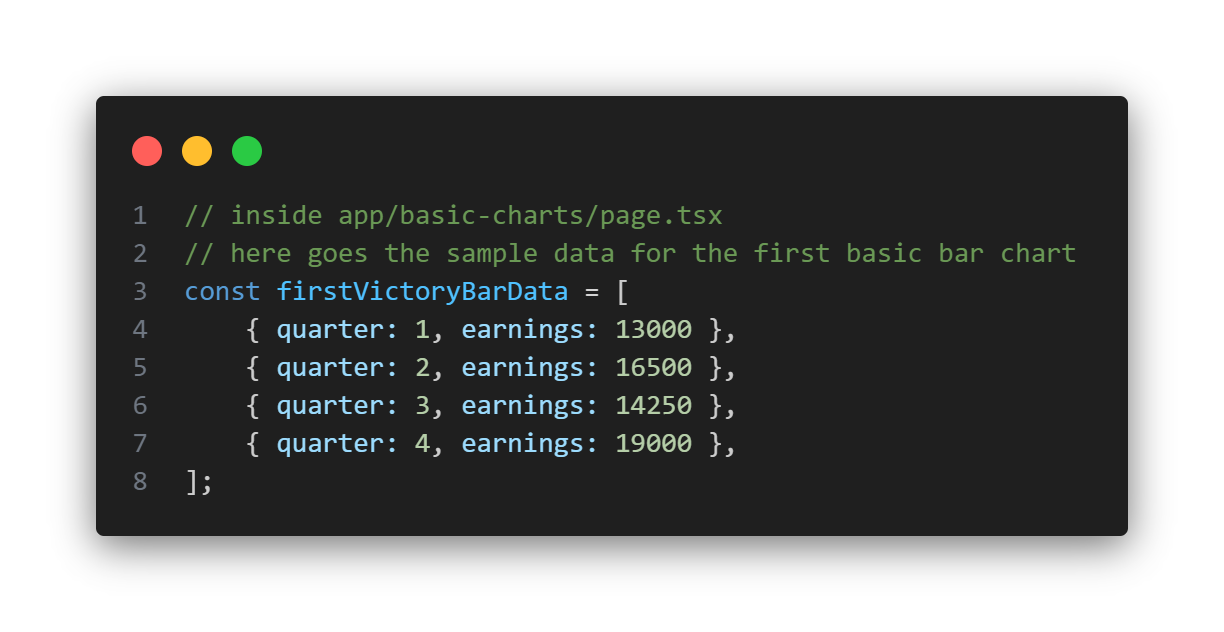
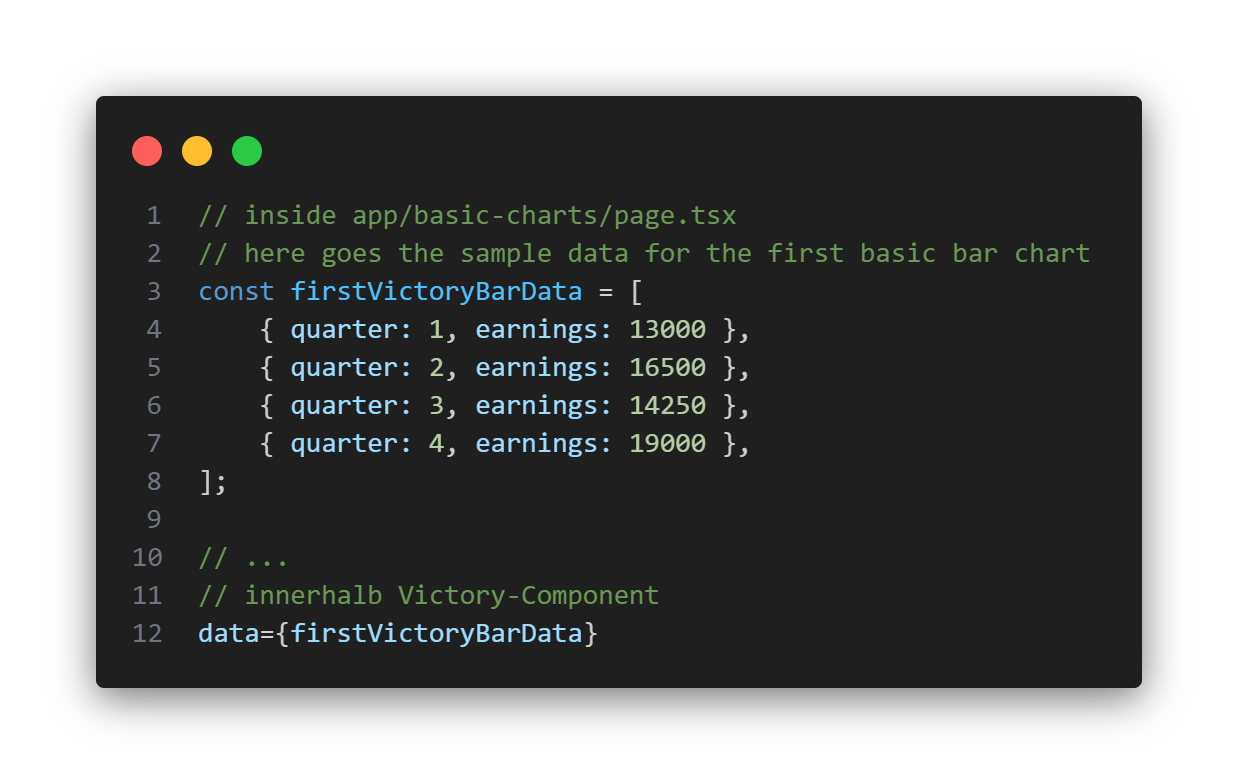
feat: pre finished basic charts

diff --git a/app/basic-charts/page.tsx b/app/basic-charts/page.tsx
@@ -1,13 +1,16 @@
 "use client";
 
 import {
+    Background,
     VictoryArea,
     VictoryAxis,
     VictoryBar,
     VictoryChart,
+    VictoryGroup,
     VictoryHistogram,
     VictoryLine,
     VictoryPie,
+    VictoryStack,
     VictoryTheme,
 } from "victory";
 import Link from "next/link";
@@ -125,7 +128,7 @@ export default function Page() {
             </section>
 
             <section>
-                <h2>Einfache Charts</h2>
+                <h2>Einfache Charts ohne Achsen</h2>
                 <article>
                     <h3>Säulendiagramm</h3>
                     <code>
@@ -136,34 +139,15 @@ export default function Page() {
                     </code>
                     <div>
                         <div className="basic-charts-div">
-                            <VictoryChart
-                                // specify the title to be applied to the SVG to assist with accessibility for screen readers
-                                title="First Bar Chart"
-                                // adding the material theme provided with Victory, alternative would be grayscale
+                            <VictoryBar
+                                data={firstVictoryBarData}
+                                // data accessor for x values
+                                x="quarter"
+                                // data accessor for y values
+                                y="earnings"
+                                // select a premade Victory theme
                                 theme={VictoryTheme.material}
-                                // prevent the bars from overlapping the axis
-                                domainPadding={20}
-                            >
-                                <VictoryAxis
-                                    tickValues={[1, 2, 3, 4]}
-                                    // tickFormat specifies how ticks should be named
-                                    tickFormat={["Quarter 1", "Quarter 2", "Quarter 3", "Quarter 4"]}
-                                />
-
-                                <VictoryAxis
-                                    dependentAxis
-                                    // tickFormat specifies how ticks should be displayed
-                                    tickFormat={(x: any) => `$${x / 1000}k`}
-                                />
-
-                                <VictoryBar
-                                    data={firstVictoryBarData}
-                                    // data accessor for x values
-                                    x="quarter"
-                                    // data accessor for y values
-                                    y="earnings"
-                                />
-                            </VictoryChart>
+                            />
                         </div>
                         <div className="image-container">
                             <Image
@@ -258,6 +242,209 @@ export default function Page() {
                         <Image
                             src="/../public/images/codesnap/basic-charts-Line.png"
                             width={900}
+                            height={500}
+                            quality={100}
+                            alt="Code Snippet"
+                        />
+                    </div>
+                </article>
+            </section>
+            <section>
+                <h2>Wichtige Victory-Components für sinnvolle Charts</h2>
+                <article>
+                    <h3>Universeller Wrapper: VictoryChart</h3>
+                    <code>
+                        Victory-Component:{" "}
+                        <Link href="https://formidable.com/open-source/victory/docs/victory-chart/" target="blank">
+                            VictoryChart
+                        </Link>
+                    </code>
+                    <ul>
+                        <li>Rendert ein Set von Victory Children Components und dient somit als Wrapper</li>
+                        <li>
+                            Kontrolliert das Layout der Victory Components, wie z.B. die Positionierung der Achsen oder
+                            die Farbgebung
+                        </li>
+                        <li>Koordinert Animationen und Events zwischen den Victory Children Components</li>
+                        <li>Sind keine Children verfügbar, werden leere Standard-Achsen gerendert</li>
+                    </ul>
+                    <div className="basic-charts-div">
+                        <VictoryChart
+                            height={300}
+                            width={300}
+                            domain={[-2, 2]}
+                            style={{ background: { fill: "yellow" } }}
+                            backgroundComponent={<Background y={50} height={100} />}
+                        />
+                    </div>
+                    <div className="image-container">
+                        <Image
+                            src="/../public/images/codesnap/basic-charts-Chart.png"
+                            width={800}
+                            height={500}
+                            quality={100}
+                            alt="Code Snippet"
+                        />
+                    </div>
+                </article>
+                <article>
+                    <h3>Achsen: VictoryAxis</h3>
+                    <code>
+                        Victory-Component:{" "}
+                        <Link href="https://formidable.com/open-source/victory/docs/victory-chart/" target="blank">
+                            VictoryAxis
+                        </Link>
+                    </code>
+                    <ul>
+                        <li>Rendert eine einzige Achse</li>
+                        <li>
+                            Kann allein verwendet werden oder innerhalb VictoryChart mit anderen Achsen gruppiert werden
+                        </li>
+                    </ul>
+                    <div className="basic-chart-container">
+                        <VictoryChart height={400} width={400} theme={VictoryTheme.material}>
+                            <VictoryAxis
+                                // set crossAxis if two axes will cross each other, 0 tick will be removed
+                                crossAxis
+                                width={400}
+                                height={400}
+                                // domain defines the range of values your axis will include
+                                domain={[-10, 10]}
+                                // offset defines the offset of the axis from the edge of the chart
+                                offsetY={200}
+                            />
+                            <VictoryAxis
+                                dependentAxis
+                                crossAxis
+                                width={400}
+                                height={400}
+                                domain={[-10, 10]}
+                                offsetX={200}
+                            />
+                        </VictoryChart>
+                    </div>
+                    <div className="image-container">
+                        <Image
+                            src="/../public/images/codesnap/basic-charts-Axis.png"
+                            width={1000}
+                            height={500}
+                            quality={100}
+                            alt="Code Snippet"
+                        />
+                    </div>
+                </article>
+                <article>
+                    <h3>Stapeln: VictoryStack</h3>
+                    <code>
+                        Victory-Component:{" "}
+                        <Link href="https://formidable.com/open-source/victory/docs/victory-chart/" target="blank">
+                            VictoryStack
+                        </Link>
+                    </code>
+                    <ul>
+                        <li>Rendert Victory Children Komponenten in gesstapeltem Layout</li>
+                        <li>Ähnlich wie Victorychart ein Wrapper-Component, der Layout an Children vererben kann</li>
+                        <li>
+                            Funktioniert mit VictoryArea, VictoryBar, VictoryCandlestick, VictoryErrorBar,
+                            VictoryGroup,VictoryLine, VictoryScatter, VictoryHistogram
+                        </li>
+                        <li>VictoryHistogram kann nicht mit anderen Component-Arten gestapelt werden</li>
+                    </ul>
+                    <div className="basic-chart-container">
+                        <VictoryStack height={200} width={300} theme={VictoryTheme.material}>
+                            <VictoryArea
+                                data={[
+                                    { x: "a", y: 2 },
+                                    { x: "b", y: 3 },
+                                    { x: "c", y: 5 },
+                                ]}
+                            />
+                            <VictoryArea
+                                data={[
+                                    { x: "a", y: 1 },
+                                    { x: "b", y: 4 },
+                                    { x: "c", y: 5 },
+                                ]}
+                            />
+                            <VictoryArea
+                                data={[
+                                    { x: "a", y: 3 },
+                                    { x: "b", y: 2 },
+                                    { x: "c", y: 6 },
+                                ]}
+                            />
+                        </VictoryStack>
+                    </div>
+                    <div className="image-container">
+                        <Image
+                            src="/../public/images/codesnap/basic-charts-Stack.png"
+                            width={800}
+                            height={500}
+                            quality={100}
+                            alt="Code Snippet"
+                        />
+                    </div>
+                </article>
+                <article>
+                    <h3>Gruppieren: VictoryGroup</h3>
+                    <code>
+                        Victory-Component:{" "}
+                        <Link href="https://formidable.com/open-source/victory/docs/victory-group/" target="blank">
+                            VictoryGroup
+                        </Link>
+                    </code>
+                    <ul>
+                        <li>Rendert ein Set von Victory Children Components und dient somit als Wrapper</li>
+                        <li>
+                            Kontrolliert das Layout der Victory Components, wie z.B. die Positionierung der Achsen oder
+                            die Farbgebung
+                        </li>
+                        <li>Koordinert Animationen und Events zwischen den Victory Children Components</li>
+                        <li>
+                            Funktioniert mit VictoryArea, VictoryBar, VictoryBoxPlot, VictoryCandlestick,
+                            VictoryErrorBar, VictoryLine, VictoryScatter, VictoryHistogram, VictoryStack und
+                            VictoryVoronoi.
+                        </li>
+                        <li>
+                            Innerhalb VictoryGroup sind keine Achsen erlaubt, diese sollten von VictoryChart umhüllt
+                            sein
+                        </li>
+                    </ul>
+                    <div className="basic-chart-container">
+                        <VictoryChart width={300} height={250}>
+                            <VictoryGroup
+                                offset={12}
+                                // colorScale kann auch explizit angegeben werden, ohne dass ein Theme verwendet wird
+                                colorScale={"qualitative"}
+                            >
+                                <VictoryBar
+                                    data={[
+                                        { x: 1, y: 1 },
+                                        { x: 2, y: 2 },
+                                        { x: 3, y: 5 },
+                                    ]}
+                                />
+                                <VictoryBar
+                                    data={[
+                                        { x: 1, y: 2 },
+                                        { x: 2, y: 1 },
+                                        { x: 3, y: 7 },
+                                    ]}
+                                />
+                                <VictoryBar
+                                    data={[
+                                        { x: 1, y: 3 },
+                                        { x: 2, y: 4 },
+                                        { x: 3, y: 9 },
+                                    ]}
+                                />
+                            </VictoryGroup>
+                        </VictoryChart>
+                    </div>
+                    <div className="image-container">
+                        <Image
+                            src="/../public/images/codesnap/basic-charts-Group.png"
+                            width={1000}
                             height={500}
                             quality={100}
                             alt="Code Snippet"
